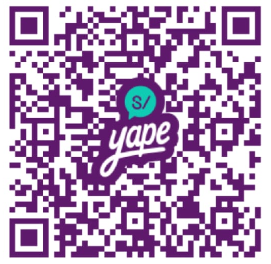
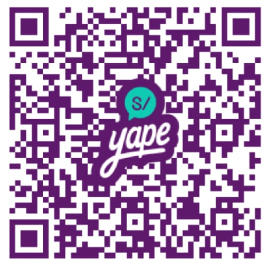
feat: actualizar QR de Yape, nombre destinatario a Fabio Herrera, mejorar guia de pago
- Reemplazar imagen QR con nuevo codigo de Yape
- Cambiar destinatario de 'Fabio Cesar Herrera Bonilla' a 'Fabio Herrera'
- Actualizar guia de pago: flujo Yape con 'Subir imagen con QR'
- QR visible al inicio de cada modal de plan

diff --git a/src/components/QRPaymentModal.tsx b/src/components/QRPaymentModal.tsx
@@ -69,33 +69,33 @@ export default function QRPaymentModal({
 
   const GUIDE_STEPS = [
     {
-      title: 'Abre Yape o Plin',
-      desc: 'Desliza hacia arriba o abre la aplicacion desde tu celular. Asegurate de tener saldo suficiente.',
+      title: 'Abre Yape',
+      desc: 'Desliza hacia arriba o abre la aplicacion Yape desde tu celular. Asegurate de tener saldo suficiente para el pago.',
       icon: '📱',
     },
     {
       title: 'Escanea el codigo QR',
-      desc: 'Toca el icono de escanear en Yape/Plin y apunta la camara al codigo QR que aparece en pantalla.',
+      desc: 'Toca el icono de escanear en Yape y apunta la camara al codigo QR que aparece al inicio del modal de pago.',
       icon: '📷',
     },
     {
-      title: 'O descarga la imagen',
-      desc: 'Si prefieres, toca "Descargar QR", luego ve a Yape > Pagos > Subir imagen y selecciona la foto descargada.',
+      title: 'O sube la imagen del QR',
+      desc: 'Descarga el QR con el boton "Descargar QR", luego ve a Yape > Pagos > "Subir imagen con QR" y selecciona la foto descargada.',
       icon: '📥',
     },
     {
-      title: 'Ingresa el monto exacto',
-      desc: `Escribe el monto: S/ ${planPrice}. Verifica que el destinatario sea correcto antes de confirmar.`,
-      icon: '✏',
-    },
-    {
-      title: 'Confirma el pago',
-      desc: 'Revisa los datos y confirma la transferencia. Guarda el comprobante de pago.',
+      title: 'Verifica el destinatario',
+      desc: 'Confirma que el destinatario aparezca como Fabio Herrera antes de continuar con el pago.',
       icon: '✅',
     },
     {
+      title: 'Ingresa el monto exacto',
+      desc: `Escribe el monto: S/ ${planPrice}. Revisa que sea correcto y confirma la transferencia.`,
+      icon: '✏',
+    },
+    {
       title: 'Envia comprobante por WhatsApp',
-      desc: 'Toca el boton verde de WhatsApp y envia tu comprobante. Activaremos tu plan de inmediato.',
+      desc: 'Toca "Ya realice el pago" y luego envia tu comprobante por WhatsApp. Activaremos tu plan de inmediato.',
       icon: '💬',
     },
   ];
@@ -283,7 +283,7 @@ export default function QRPaymentModal({
                     <span className="font-semibold text-blue-400">Plin</span>
                   </p>
                   <p className="text-[10px] text-gray-600 mt-1">
-                    Destinatario: Fabio Cesar Herrera Bonilla
+                    Destinatario: Fabio Herrera
                   </p>
                 </div>
 
